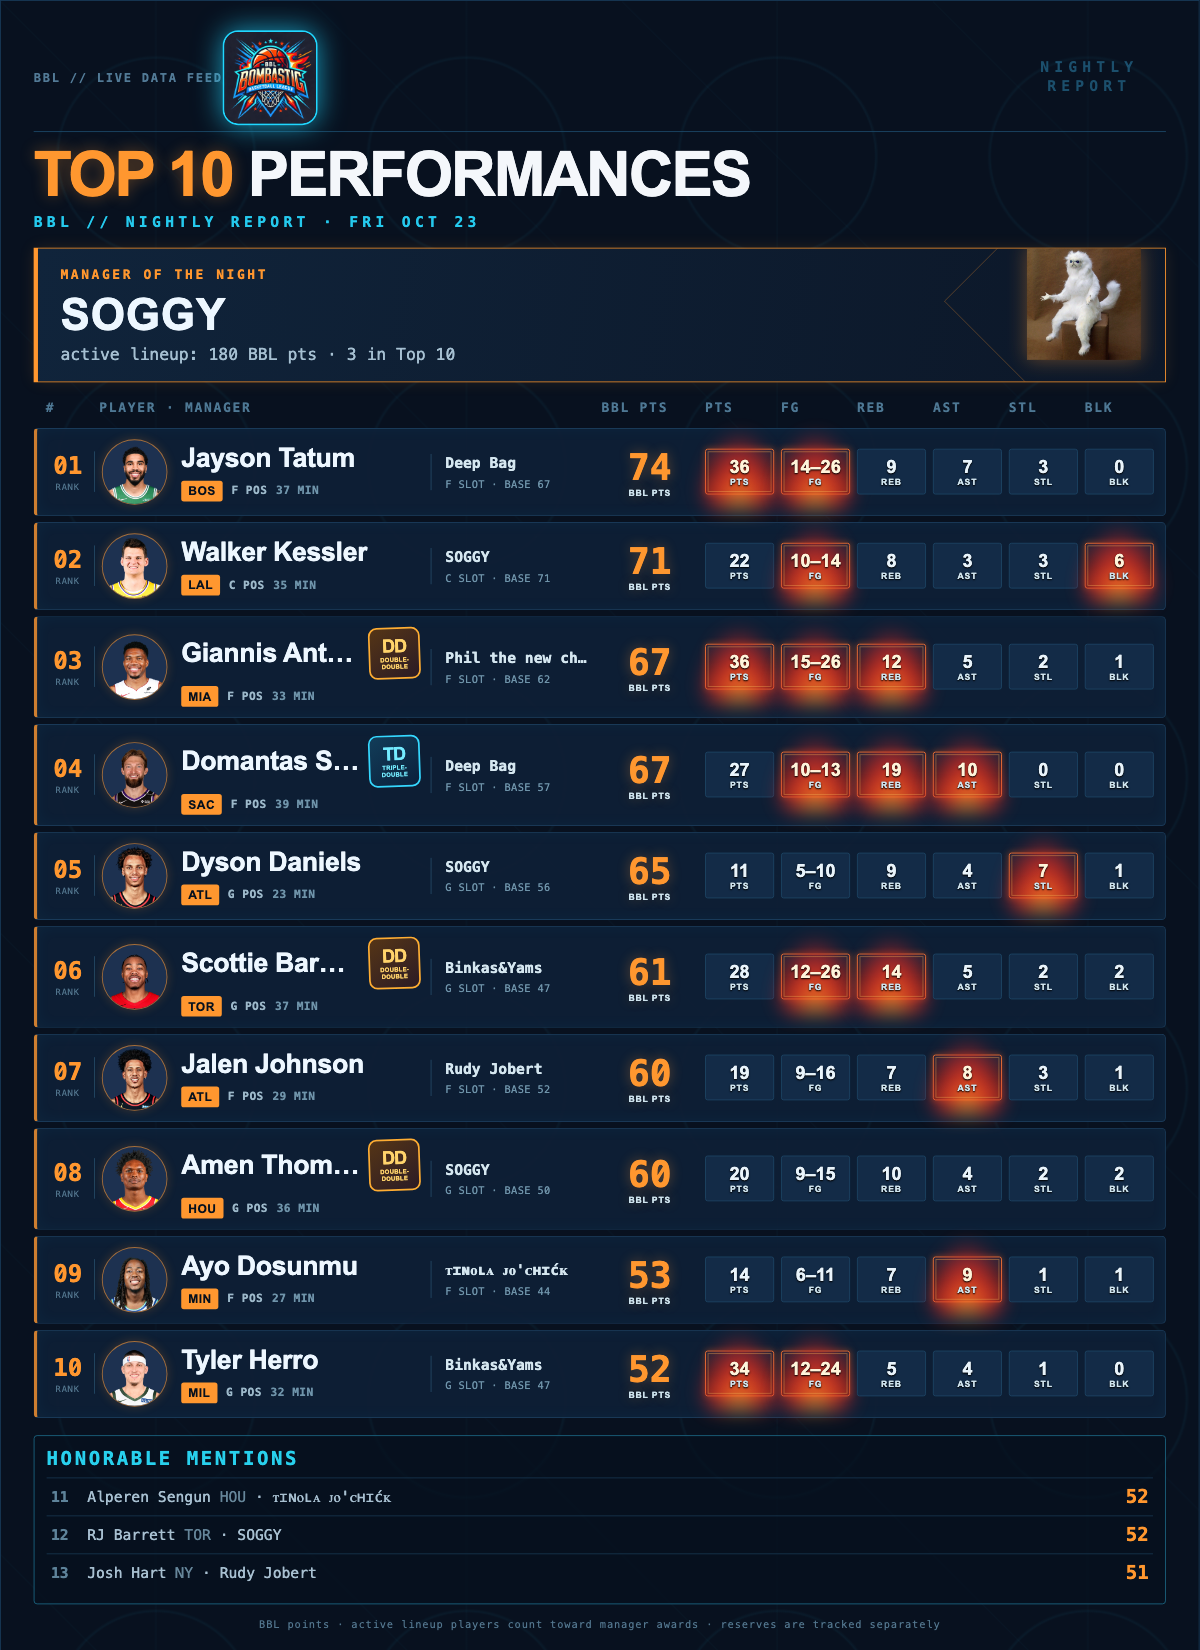
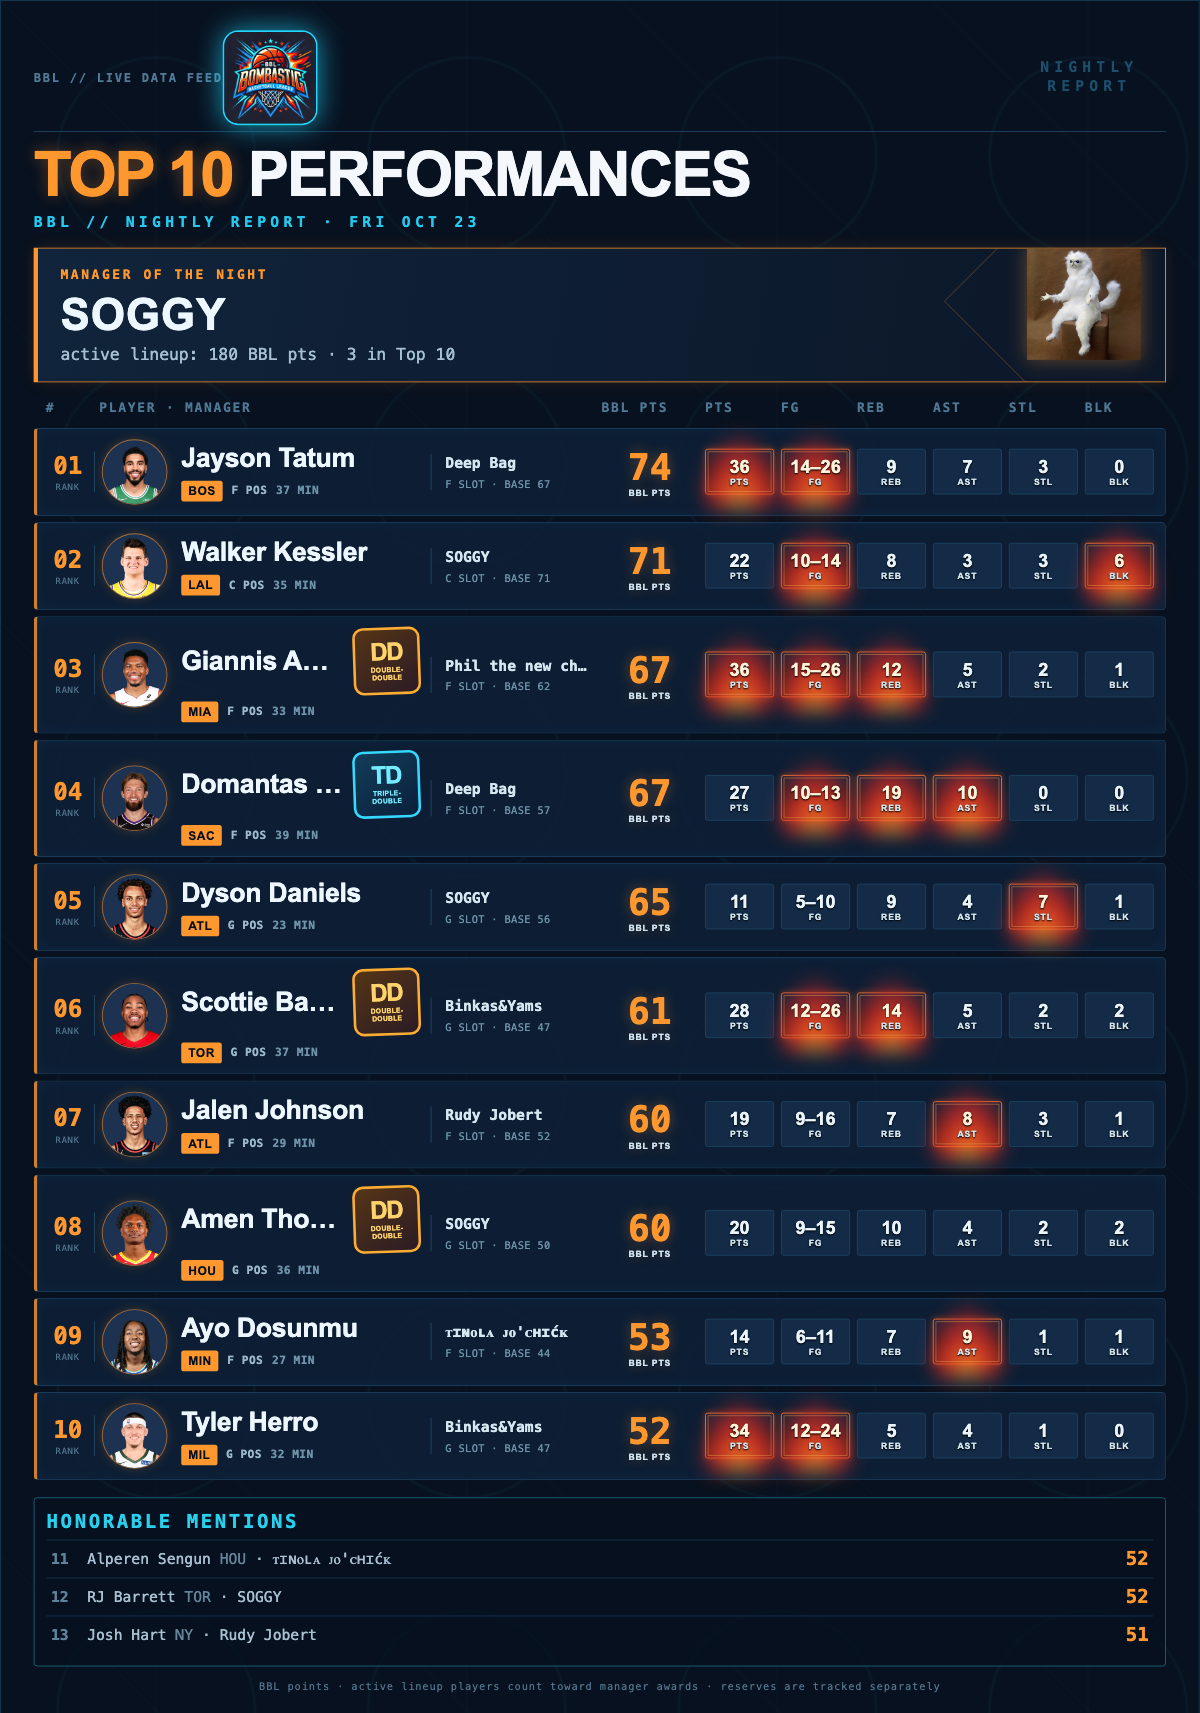
Increase award emblem scale

diff --git a/bbl/social_cards.py b/bbl/social_cards.py
@@ -149,7 +149,7 @@ h1{{font-size:62px;line-height:.9;margin:0;color:#f4f7fb;letter-spacing:-2px;tex
 .label{{font:700 14px monospace;letter-spacing:3px;color:{accent};text-transform:uppercase}}.award h2{{font-size:42px;letter-spacing:1px;margin:7px 0 3px}}.award p{{font:17px monospace;margin:0;color:#a6c0d2}}
 .cols,.row{{display:grid;grid-template-columns:54px 1fr 112px {stat_columns};gap:8px;align-items:center}}.cols{{padding:0 14px 6px;color:#4e7894;font:700 13px monospace;letter-spacing:2px;text-transform:uppercase}}
 .row{{background:rgba(14,31,53,.94);border:1px solid #1b3c5b;border-left:4px solid {accent}cc;border-radius:5px;padding:9px 12px;margin:6px 0;box-shadow:inset 0 0 18px rgba(30,170,230,.05)}}.row:hover{{border-color:{accent}}}.rank{{font:700 24px monospace;color:{accent};text-align:center;border-right:1px solid #244965;padding-right:8px}}.rank small{{display:block;font:9px monospace;color:#52758d;letter-spacing:1px;margin-top:3px}}
- .who{{display:grid;grid-template-columns:70px minmax(0,1fr) 190px;gap:12px;align-items:center;min-width:0}}.who b{{display:block;font-size:24px;letter-spacing:-.4px;white-space:nowrap;overflow:hidden;text-overflow:ellipsis}}.headshot{{width:66px;height:66px;object-fit:cover;border-radius:50%;background:#1d3150;border:1px solid {accent}99;box-shadow:0 0 12px {accent}33}}.headshot.placeholder{{background:linear-gradient(135deg,#162c47,#0a1627)}}.name-line{{display:flex;align-items:center;gap:10px;min-width:0}}.name-line b{{min-width:0}}.player-meta{{display:flex;align-items:center;gap:8px;margin-top:6px;white-space:nowrap}}.who .team{{display:inline-block;color:#07111e;background:{accent};border-radius:3px;padding:3px 7px;font:800 12px Arial,sans-serif;letter-spacing:.6px}}.position,.minutes{{color:#9db9ca;font:700 12px monospace;letter-spacing:.5px}}.minutes{{color:#6f94aa}}.badge{{display:inline-flex;flex:0 0 auto;width:60px;height:60px;align-items:center;justify-content:center;flex-direction:column;gap:2px;padding:4px;border:2px solid;border-radius:10px;font:900 9px Arial,sans-serif;letter-spacing:.2px;white-space:normal;text-align:center;box-shadow:inset 0 0 12px #ffffff18,0 0 12px currentColor66;transform:rotate(-2deg)}}.badge i{{display:block;background:none;font:900 21px/21px Arial,sans-serif;font-style:normal;letter-spacing:-1px}}.badge strong{{display:block;font:900 7px/8px Arial,sans-serif;letter-spacing:.2px;max-width:52px}}.badge-triple{{color:#74ecff;border-color:#35d8ff;background:linear-gradient(145deg,#123d59,#0b203b)}}.badge-double{{color:#ffd36b;border-color:#ffad32;background:linear-gradient(145deg,#553516,#2b1b25)}}.badge-cardio{{color:#d8b8ff;border-color:#b477ff;background:linear-gradient(145deg,#3b245b,#211b3b)}}.badge-brick{{color:#aef5ff;border-color:#5ddcff;background:linear-gradient(145deg,#164b63,#12253f)}}.details{{min-width:0;border-left:1px solid #244965;padding-left:14px}}.details small{{display:block;color:#d5e7f0;font:700 15px monospace;white-space:nowrap;overflow:hidden;text-overflow:ellipsis}}.details em{{display:block;color:#6f94aa;font:11px monospace;font-style:normal;margin-top:7px;letter-spacing:.4px;white-space:nowrap}}
+ .who{{display:grid;grid-template-columns:70px minmax(0,1fr) 190px;gap:12px;align-items:center;min-width:0}}.who b{{display:block;font-size:24px;letter-spacing:-.4px;white-space:nowrap;overflow:hidden;text-overflow:ellipsis}}.headshot{{width:66px;height:66px;object-fit:cover;border-radius:50%;background:#1d3150;border:1px solid {accent}99;box-shadow:0 0 12px {accent}33}}.headshot.placeholder{{background:linear-gradient(135deg,#162c47,#0a1627)}}.name-line{{display:flex;align-items:center;gap:12px;min-width:0}}.name-line b{{min-width:0}}.player-meta{{display:flex;align-items:center;gap:8px;margin-top:6px;white-space:nowrap}}.who .team{{display:inline-block;color:#07111e;background:{accent};border-radius:3px;padding:3px 7px;font:800 12px Arial,sans-serif;letter-spacing:.6px}}.position,.minutes{{color:#9db9ca;font:700 12px monospace;letter-spacing:.5px}}.minutes{{color:#6f94aa}}.badge{{display:inline-flex;flex:0 0 auto;width:78px;height:78px;align-items:center;justify-content:center;flex-direction:column;gap:3px;padding:5px;border:3px solid;border-radius:12px;font:900 10px Arial,sans-serif;letter-spacing:.2px;white-space:normal;text-align:center;box-shadow:inset 0 0 15px #ffffff18,0 0 16px currentColor77;transform:rotate(-2deg)}}.badge i{{display:block;background:none;font:900 28px/27px Arial,sans-serif;font-style:normal;letter-spacing:-1.5px}}.badge strong{{display:block;font:900 8px/9px Arial,sans-serif;letter-spacing:.2px;max-width:66px}}.badge-triple{{color:#74ecff;border-color:#35d8ff;background:linear-gradient(145deg,#123d59,#0b203b)}}.badge-double{{color:#ffd36b;border-color:#ffad32;background:linear-gradient(145deg,#553516,#2b1b25)}}.badge-cardio{{color:#d8b8ff;border-color:#b477ff;background:linear-gradient(145deg,#3b245b,#211b3b)}}.badge-brick{{color:#aef5ff;border-color:#5ddcff;background:linear-gradient(145deg,#164b63,#12253f)}}.details{{min-width:0;border-left:1px solid #244965;padding-left:14px}}.details small{{display:block;color:#d5e7f0;font:700 15px monospace;white-space:nowrap;overflow:hidden;text-overflow:ellipsis}}.details em{{display:block;color:#6f94aa;font:11px monospace;font-style:normal;margin-top:7px;letter-spacing:.4px;white-space:nowrap}}
 .score{{color:{accent};font:800 31px monospace;text-align:center;text-shadow:0 0 15px {accent}55}}.score small,.stat small{{display:block;font:8px monospace;color:#7394aa;letter-spacing:1px}}.stat{{position:relative;z-index:1;background:#132b47;border:1px solid #1d4564;border-radius:3px;text-align:center;padding:5px 2px;font:700 16px monospace;overflow:visible;isolation:isolate}}.stat.hot{{border:2px solid #ffad32;box-shadow:0 0 5px #ffb000,0 0 15px #ff4b1f99;color:#fff8dd;background:linear-gradient(180deg,#5b2417,#261925)}}.stat.hot:before{{content:"";position:absolute;z-index:-1;left:-8px;right:-8px;top:-15px;bottom:-9px;background:linear-gradient(150deg,#ffd45a 0 10%,transparent 11% 22%,#ff7a18 23% 35%,transparent 36% 49%,#ff3219 50% 64%,transparent 65% 78%,#ff9b20 79% 90%,transparent 91%);clip-path:polygon(0 100%,3% 54%,16% 68%,18% 20%,29% 52%,42% 0,53% 49%,66% 14%,75% 53%,89% 5%,94% 59%,100% 35%,100% 100%);filter:drop-shadow(0 0 8px #ff4b1f);pointer-events:none}}.stat.hot:after{{content:"";position:absolute;inset:2px;border:1px solid #ffd36b99;background:linear-gradient(180deg,transparent,#ff5a1a33);pointer-events:none}}.stat.cold{{border:2px solid #b9fbff;box-shadow:0 0 6px #b9fbff,0 0 18px #28cfff99;color:#edffff;background:linear-gradient(135deg,#d8ffff 0 4%,#3caed2 6% 12%,#153b5b 13% 82%,#0a223b 83%)}}.stat.cold:before{{content:"";position:absolute;z-index:-1;inset:-7px;background:linear-gradient(135deg,#dfffff,#55e9ff 20%,#135b88 48%,#a9f8ff 72%,#1b719c);clip-path:polygon(0 8%,18% 15%,28% 0,43% 13%,59% 3%,74% 17%,100% 7%,88% 31%,100% 50%,87% 66%,100% 93%,76% 84%,63% 100%,48% 87%,28% 100%,19% 85%,0 94%,11% 69%,0 51%,12% 32%);filter:drop-shadow(0 0 7px #46eaff);pointer-events:none}}.stat.cold:after{{content:"";position:absolute;inset:2px;background:linear-gradient(125deg,transparent 27%,#e7ffff99 28% 31%,transparent 32% 56%,#bdfaff77 57% 60%,transparent 61%);pointer-events:none}}.stat span{{position:relative;z-index:1}}.stat small{{position:relative;z-index:1}}.stat:not(.hot):not(.cold) span{{color:#e9f4fb}}.stat:not(.hot):not(.cold){{color:#fff}}
 .section{{border:1px solid #1c6682;border-radius:4px;margin-top:18px;padding:13px;background:rgba(5,17,31,.72)}}.section h3{{color:#28d0ed;font:700 19px monospace;letter-spacing:3px;margin:0 0 8px}}.mention{{display:grid;grid-template-columns:42px 1fr 70px;align-items:center;border-top:1px solid #17354e;padding:8px 4px;color:#a8c0d1;font:15px monospace}}.mention b{{color:#5e839a}}.mention i{{font-style:normal;color:#66869a}}.mention strong{{color:{accent};text-align:right;font:700 20px monospace}}
  footer{{margin-top:18px;text-align:center;color:#52758d;font:11px monospace;letter-spacing:1px}}
